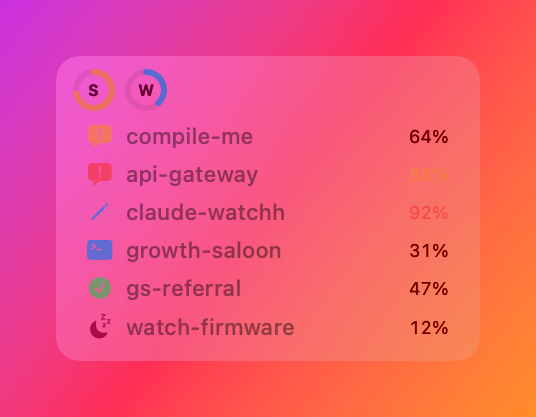
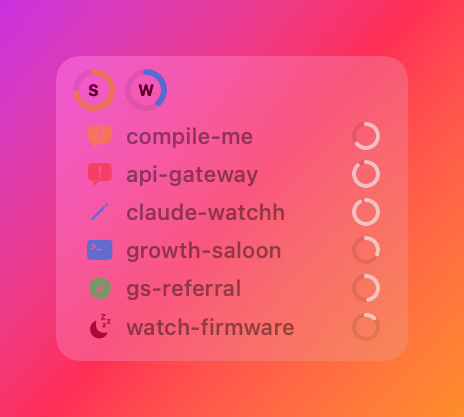
feat(macapp): widget context as a white filling ring; narrower + truncate
Per-agent context % is now a small white progress ring (number on hover) instead
of text; widget narrowed to 176pt and long repo names truncate.

diff --git a/macapp/Sources/ClaudeWatchBar/WidgetView.swift b/macapp/Sources/ClaudeWatchBar/WidgetView.swift
@@ -46,11 +46,27 @@ struct WidgetView: View {
         }
         .padding(.horizontal, 10)
         .padding(.vertical, 8)
-        .frame(width: 212, alignment: .leading)
+        .frame(width: 176, alignment: .leading)
         .background(.ultraThinMaterial)
         .opacity(hovered ? 1.0 : 0.6)
         .animation(.easeInOut(duration: 0.15), value: hovered)
         .onHover { hovered = $0 }
+    }
+}
+
+/// A small white ring that fills to a chat's context %; number shows on hover.
+struct ContextRing: View {
+    let pct: Int
+    var body: some View {
+        ZStack {
+            Circle().stroke(Color.primary.opacity(0.18), lineWidth: 2)
+            Circle()
+                .trim(from: 0, to: CGFloat(pct) / 100)
+                .stroke(Color.white, style: StrokeStyle(lineWidth: 2, lineCap: .round))
+                .rotationEffect(.degrees(-90))
+        }
+        .frame(width: 12, height: 12)
+        .help("context \(pct)%")
     }
 }
 
@@ -91,11 +107,10 @@ struct CompactAgentRow: View {
             Text(agent.project)
                 .font(.system(size: 11, weight: .medium))
                 .lineLimit(1)
+                .truncationMode(.tail)
             Spacer(minLength: 4)
             if let pct = agent.contextPct {
-                Text("\(pct)%")
-                    .font(.system(size: 9).monospacedDigit())
-                    .foregroundStyle(usageTier(pct) == .normal ? .secondary : usageTier(pct).color)
+                ContextRing(pct: pct)
             }
         }
         .padding(.horizontal, 5)